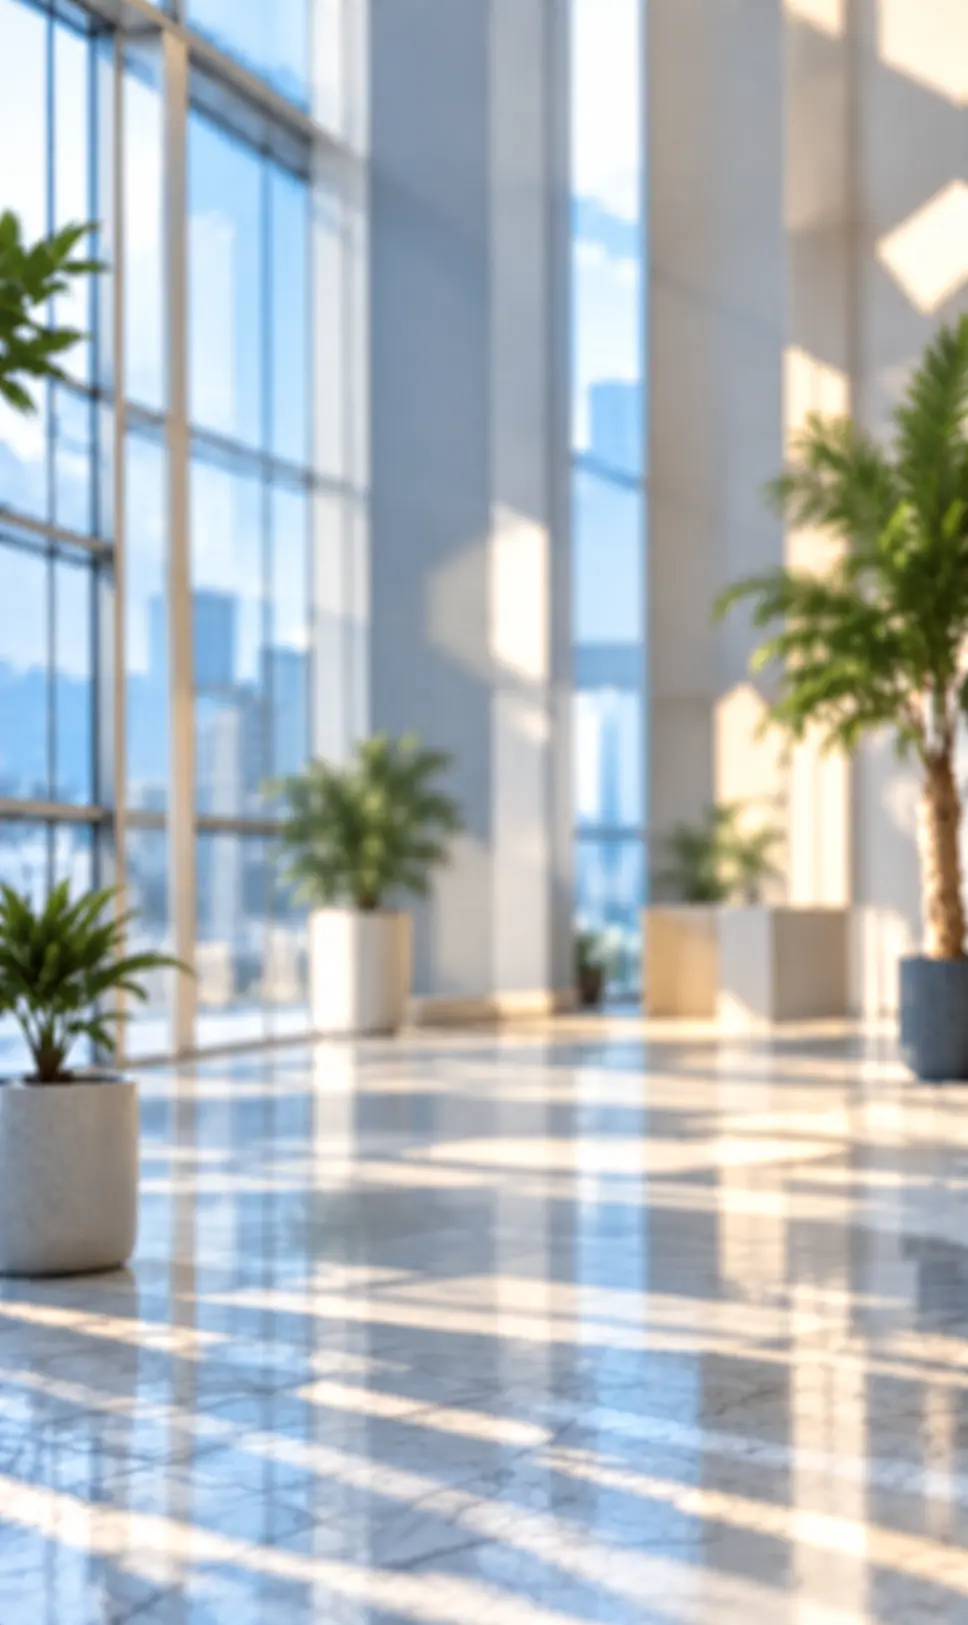
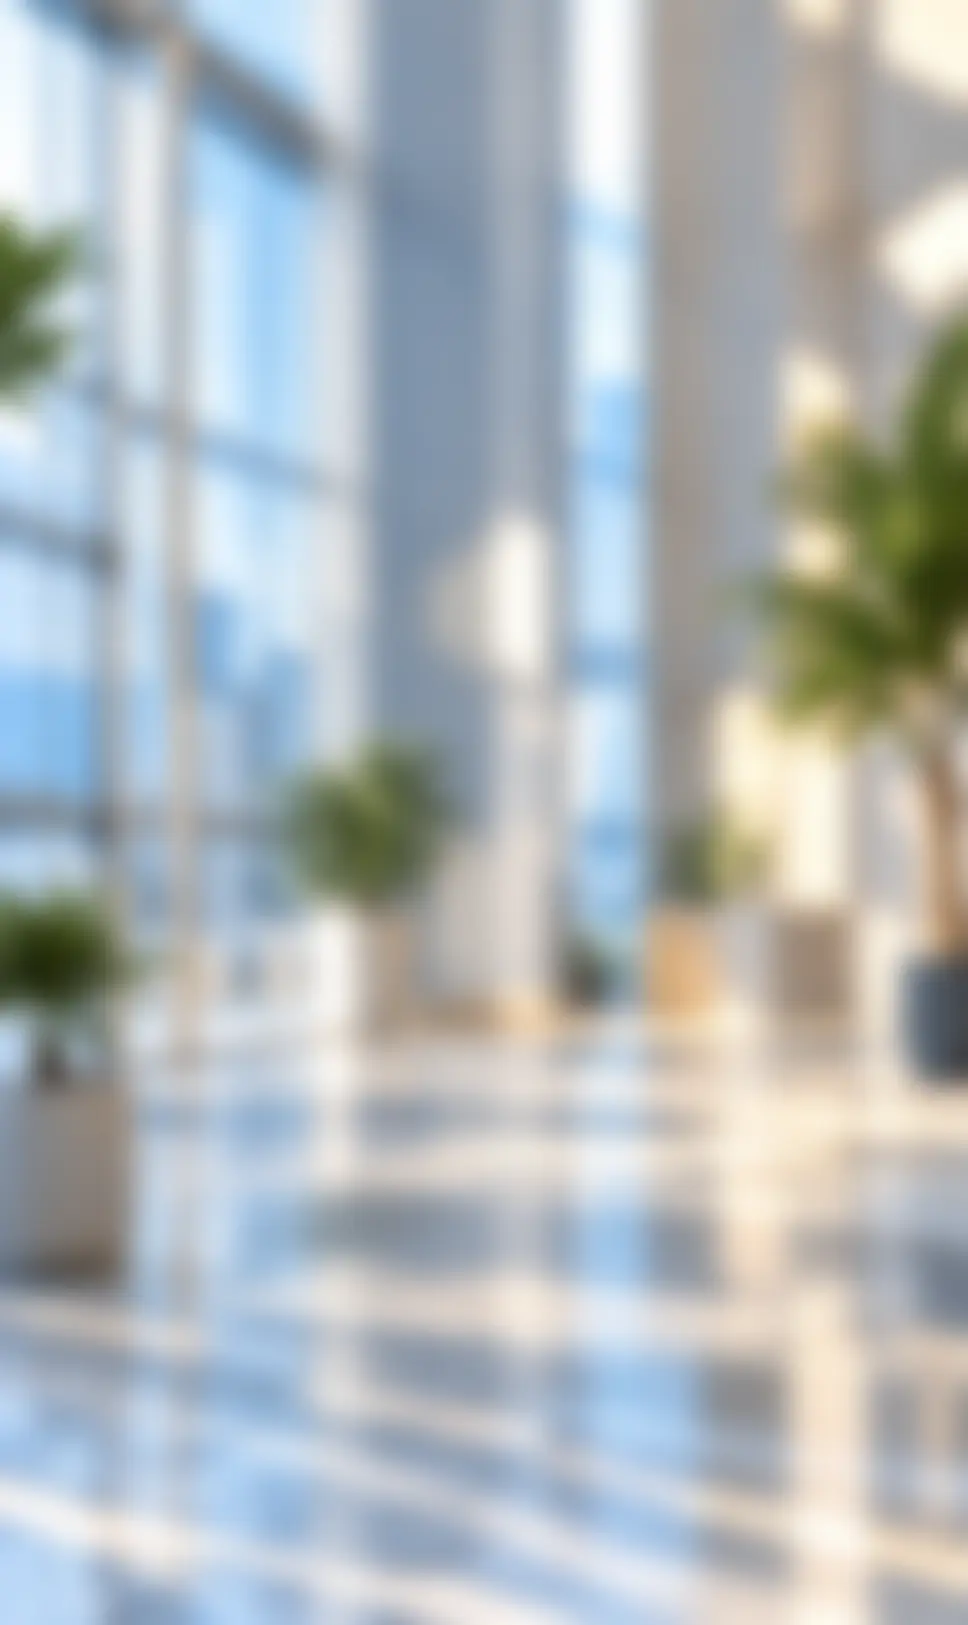
design(shell): the menu fits one screen, and the ground is blurred
Eleven groups are six rows, and all six have to be there without a
scroll — the reference for that is the layout this replaced, whose card
came to 90px and whose six rows came to 600.

This one was 96 and 636. Padding to p-3, the label to 13.5px, the gap
under the chip to mt-2 and the grid gap to 2.5 brings the card to 86
and the six rows to 566 — thirty-four pixels better than the layout it
is measured against, so it has room on a shorter phone than mine.

The ground takes a Gaussian blur at radius 14, rebuilt from the PNG
rather than from the WebP already on disk, since blurring a lossy file
re-encodes its artefacts along with the picture. It also comes out
smaller — 20KB against 45 — because a blurred image has less to encode.

diff --git a/src/components/layout/Shell.jsx b/src/components/layout/Shell.jsx
@@ -675,14 +675,14 @@ function Shell({ profile, onSignOut }) {
           <>
           {/* The wallet card that used to head this screen is the chip on
               the bar now — visible everywhere instead of only here. */}
-          <div className="grid grid-cols-2 auto-rows-fr gap-3 pt-2">
+          <div className="grid grid-cols-2 auto-rows-fr gap-2.5 pt-2">
             {visibleGroups.map(function (g) {
               var badge = groupBadge(g)
               return (
                 <button
                   key={g.key}
                   onClick={function () { openGroup(g) }}
-                  className="relative bg-white/85 backdrop-blur-xl border border-white/70 shadow-[0_2px_10px_rgba(15,23,42,0.07)] rounded-2xl p-3.5 flex flex-col items-start text-left hover:bg-white hover:shadow-[0_8px_22px_rgba(15,23,42,0.10)] active:scale-[0.98] transition-all"
+                  className="relative bg-white/85 backdrop-blur-xl border border-white/70 shadow-[0_2px_10px_rgba(15,23,42,0.07)] rounded-2xl p-3 flex flex-col items-start text-left hover:bg-white hover:shadow-[0_8px_22px_rgba(15,23,42,0.10)] active:scale-[0.98] transition-all"
                 >
                   {badge > 0 && (
                     <span className="absolute -top-1.5 -right-1.5 min-w-[22px] h-[22px] px-1.5 bg-red-500 text-white text-[10.5px] font-bold rounded-full flex items-center justify-center shadow-[0_2px_6px_rgba(239,68,68,0.45)]">
@@ -699,7 +699,7 @@ function Shell({ profile, onSignOut }) {
                     </span>
                     <Icon name="chevronRight" size={16} className="shrink-0 text-slate-300" />
                   </span>
-                  <span className="mt-3 text-[14.5px] font-bold text-slate-900 leading-snug">{g.label}</span>
+                  <span className="mt-2 text-[13.5px] font-bold text-slate-900 leading-snug">{g.label}</span>
                 </button>
               )
             })}
